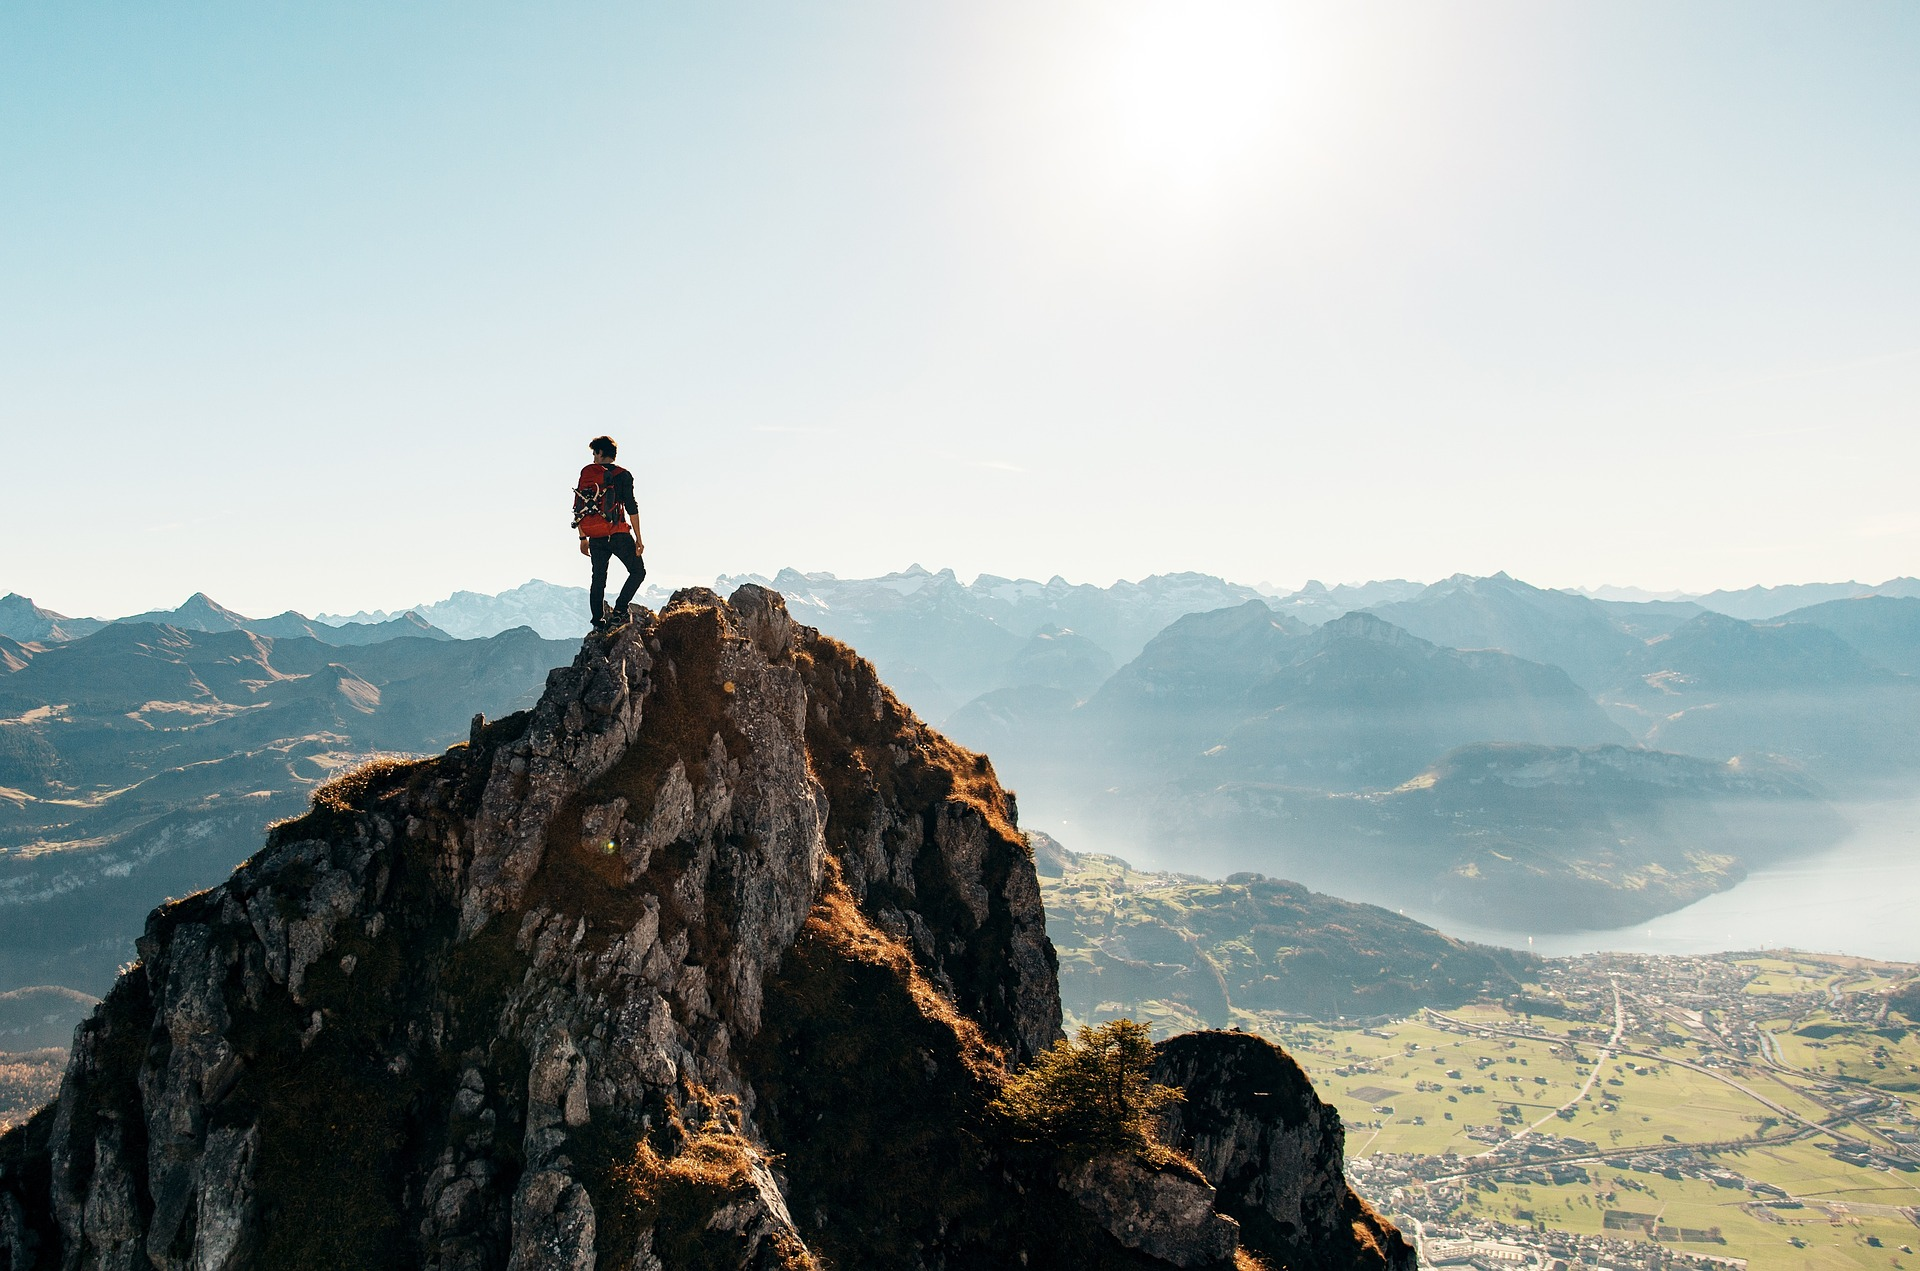
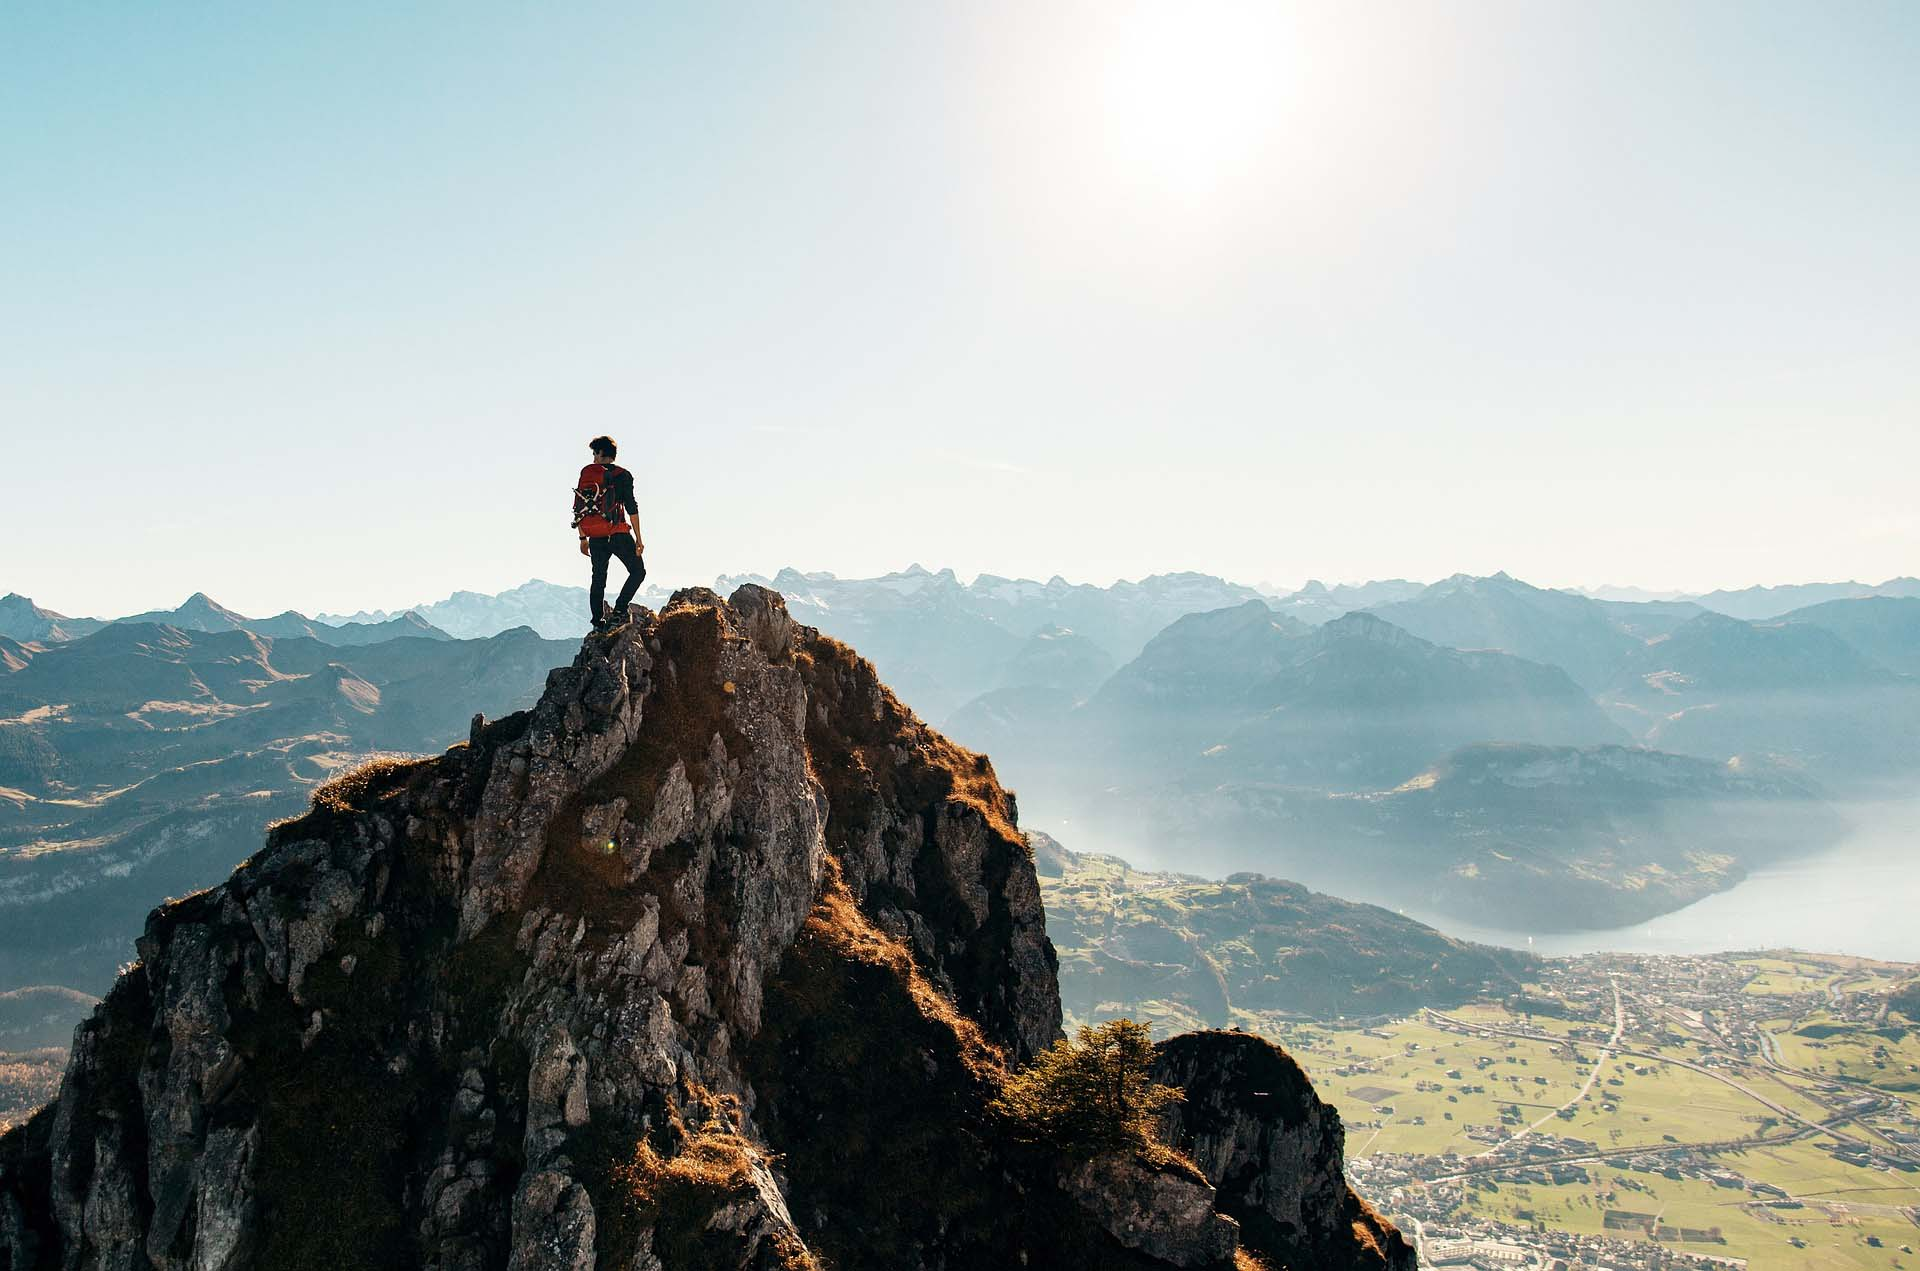
Meta discription
Added info to meta description to every page. All pictures resized under 200kb

Changed region(s): [[0.5312, 0.8285, 0.5938, 0.8592]]

diff --git a/about.html b/about.html
@@ -6,7 +6,7 @@
     <link href="css/style.css" rel="stylesheet" type="text/css">
     <script src="https://kit.fontawesome.com/b54b0f2f33.js" crossorigin="anonymous"></script>
     <title>RainyDays | About</title>
-    <meta name="description" content="About Us" />
+    <meta name="description" content="About RainyDays. A jacketbrand based in Bergen, Norway. Breathable and enduring jackets for every type of weather"/>
     <meta name="viewport" content="width=device-width, initial-scale=1.0" />
   </head>
   <body>

diff --git a/wellhavens.html b/wellhavens.html
@@ -6,7 +6,7 @@
     <link href="css/style.css" rel="stylesheet" type="text/css">
     <script src="https://kit.fontawesome.com/b54b0f2f33.js" crossorigin="anonymous"></script>
     <title>RainyDays | Wellhavens</title>
-    <meta name="description" content="Jacketdetail" />
+    <meta name="description" content="Wellhavens Jacket. Waterproof, windproof, breathable and enduring jacket from our new collection"/>
     <meta name="viewport" content="width=device-width, initial-scale=1.0" />
   </head>
   <body>

diff --git a/signup.html b/signup.html
@@ -6,7 +6,7 @@
     <link href="css/myaccount.css" rel="stylesheet" type=text/css>
     <script src="https://kit.fontawesome.com/b54b0f2f33.js" crossorigin="anonymous"></script>
     <title>RainyDays | Sign Up</title>
-    <meta name="description" content="Sign Up" />
+    <meta name="description" content="Sign Up. Become a part of your family today. Subscribe to our newsletter and get 10% off your first purchase"/>
     <meta name="viewport" content="width=device-width, initial-scale=1.0" />
   </head>
 

diff --git a/contact.html b/contact.html
@@ -6,7 +6,7 @@
     <link href="css/contact.css" rel="stylesheet" type="text/css">
     <script src="https://kit.fontawesome.com/b54b0f2f33.js" crossorigin="anonymous"></script>
     <title>RainyDays | Contact</title>
-    <meta name="description" content="Contact" />
+    <meta name="description" content="Contact Us. | Hi! How can we help you? | Tel: +47 12345678 | We do our best to reply as quickly as possible"/>
     <meta name="viewport" content="width=device-width, initial-scale=1.0" />
   </head>
 

diff --git a/wollfs.html b/wollfs.html
@@ -6,7 +6,7 @@
     <link href="css/style.css" rel="stylesheet" type="text/css">
     <script src="https://kit.fontawesome.com/b54b0f2f33.js" crossorigin="anonymous"></script>
     <title>RainyDays | Wollfs</title>
-    <meta name="description" content="Jacketdetail" />
+    <meta name="description" content="Wollfs Jacket. Waterproof, windproof, breathable and enduring jacket from our new collection"/>
     <meta name="viewport" content="width=device-width, initial-scale=1.0" />
   </head>
   <body>

diff --git a/shoppingcart.html b/shoppingcart.html
@@ -6,7 +6,7 @@
     <link href="css/shoppingcart.css" rel="stylesheet" type=text/css>
     <script src="https://kit.fontawesome.com/b54b0f2f33.js" crossorigin="anonymous"></script>
     <title>RainyDays | Shopping Cart</title>
-    <meta name="description" content="Shopping Cart" />
+    <meta name="description" content="Shopping Cart. Make your purchase today. Delivery 5-7 buisnessdays"/>
     <meta name="viewport" content="width=device-width, initial-scale=1.0" />
   </head>
   <body>

diff --git a/women.html b/women.html
@@ -6,7 +6,7 @@
     <link href="css/style.css" rel="stylesheet" type="text/css">
     <script src="https://kit.fontawesome.com/b54b0f2f33.js" crossorigin="anonymous"></script>
     <title>RainyDays | Woman</title>
-    <meta name="description" content="Womanswear" />
+    <meta name="description" content="Womanswear. Discover on-trend, must have items at RainyDays. | Shipping world wide"/>
     <meta name="viewport" content="width=device-width, initial-scale=1.0" />
   </head>
   <body>

diff --git a/men.html b/men.html
@@ -6,7 +6,7 @@
     <link href="css/style.css" rel="stylesheet" type="text/css">
     <script src="https://kit.fontawesome.com/b54b0f2f33.js" crossorigin="anonymous"></script>
     <title>RainyDays | Men</title>
-    <meta name="description" content="Menswear" />
+    <meta name="description" content="Wenswear. Discover on-trend, must have items at RainyDays. | Shipping world wide"/>
     <meta name="viewport" content="width=device-width, initial-scale=1.0" />
   </head>
   <body>

diff --git a/index.html b/index.html
@@ -7,7 +7,7 @@
     <script src="https://kit.fontawesome.com/b54b0f2f33.js" crossorigin="anonymous"></script>
     <title>RainyDays | Homepage</title>
     <meta charset="UTF-8">
-    <meta name="description" content="This is a homepage" />
+    <meta name="description" content="RainyDays. High quality jackets for every ocation. Find your perfect fit and color for this season"/>
     <meta name="viewport" content="width=device-width, initial-scale=1.0" />
   </head>
   <body>

diff --git a/myaccount.html b/myaccount.html
@@ -6,7 +6,7 @@
     <link href="css/myaccount.css" rel="stylesheet" type=text/css>
     <script src="https://kit.fontawesome.com/b54b0f2f33.js" crossorigin="anonymous"></script>
     <title>RainyDays | Sign In</title>
-    <meta name="description" content="Sign In" />
+    <meta name="description" content="Sign In. Subscribe to our newsletter and get 10% off your first purchase"/>
     <meta name="viewport" content="width=device-width, initial-scale=1.0" />
   </head>
 

diff --git a/checkout.html b/checkout.html
@@ -6,7 +6,7 @@
     <link href="css/checkout.css" rel="stylesheet" type="text/css">
     <script src="https://kit.fontawesome.com/b54b0f2f33.js" crossorigin="anonymous"></script>
     <title>RainyDays | Check Out</title>
-    <meta name="description" content="Check Out"/>
+    <meta name="description" content="Check Out | Thank you for your purchase"/>
     <meta name="viewport" content="width=device-width, initial-scale=1.0" />
   </head>
   <body>

diff --git a/css/index.css b/css/index.css
@@ -4,6 +4,7 @@
     background-position: center;
     background-repeat: no-repeat;
     background-size: cover;
+    margin-bottom: 1rem;
   }
 
 .hero-image2 {
@@ -104,6 +105,7 @@ h2 {
 
   .hero-image2 {
     display: block;
+    margin-bottom: 1rem;
   }
 }
 
